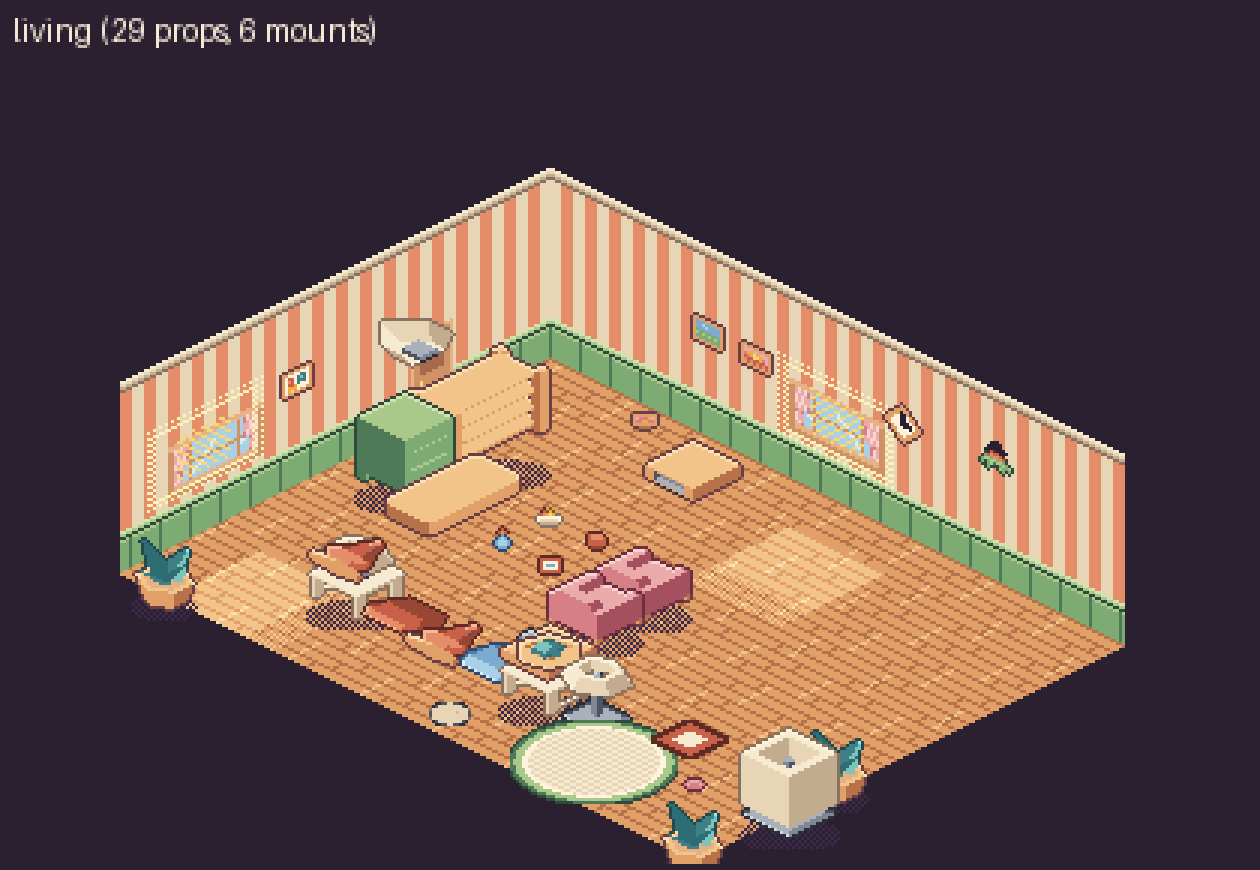
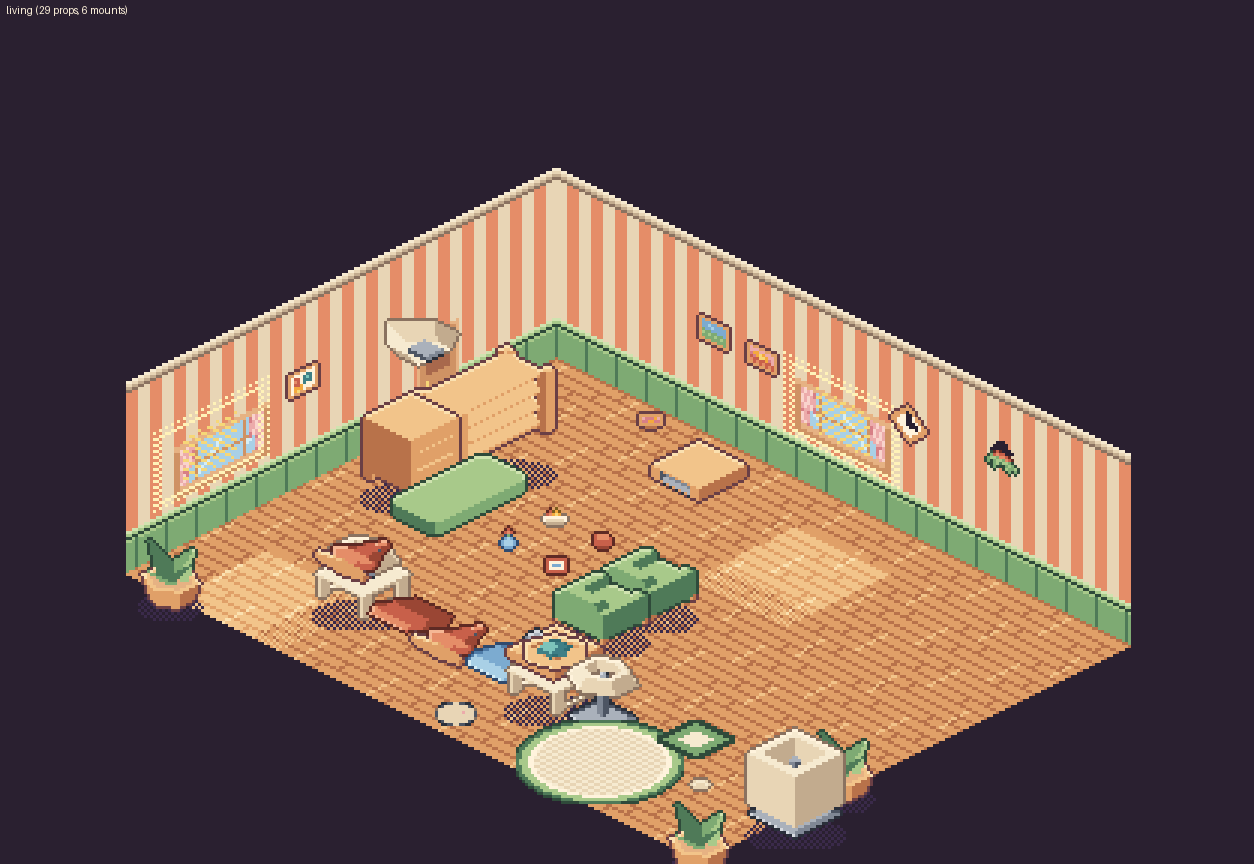
AI-6: living room palette family (recolor.py), full atlas repack, requests to AI-2, status

Changed region(s): [[0.0933, 0.1875, 0.9019, 1.0], [0.0, 0.0, 0.311, 0.0625]]

diff --git a/tools/pixelart/recolor.py b/tools/pixelart/recolor.py
@@ -1,0 +1,38 @@
+#!/usr/bin/env python3
+"""AI-6: palette-family recolour of existing prop/spot PNGs (tone-for-tone ramp swap, palette-exact, idempotent). Used because the Kenney OBJs
+are not in the repo, so the 3D frames cannot be re-rendered. Usage: recolor.py <room-slice dir> [--report]. Run BEFORE tools/pack/pack.py."""
+import json, os, sys
+from PIL import Image
+sys.path.insert(0, os.path.dirname(__file__))
+from dsl import PAL, hx
+RAMP = {tuple(hx(c)): (n, i) for n, r in PAL['ramps'].items() for i, c in enumerate(r)}
+# one palette family per room: warm wood + cream neutrals + ONE accent (sage). frame -> [(from ramp, to ramp)]
+MAP = {
+    'prop__loungeSofa': [('teal', 'sage')], 'prop__loungeChair': [('rose', 'sage')], 'prop__chairDesk': [('sky', 'sage')],
+    'prop__bookcaseClosed': [('sage', 'woodWarm')], 'prop__bench': [('sage', 'woodWarm')], 'prop__sideTableDrawers': [('sage', 'woodWarm')],
+    'prop__cabinetTelevision': [('slate', 'woodDark')], 'prop__speaker': [('slate', 'woodDark')],
+    'spot__sofa__closed': [('teal', 'sage')], 'spot__sofa__open': [('teal', 'sage')],
+    'prop__catBed': [('terracotta', 'sage')], 'prop__catBowl': [('rose', 'plaster')], 'prop__pottedPlant': [('teal', 'sage')],
+    'prop__rugDoormat': [('woodWarm', 'sage'), ('woodDark', 'sage')],
+}
+def report(path):
+    im = Image.open(path).convert('RGBA'); c = {}
+    for p in im.getdata():
+        if p[3] and tuple(p) in RAMP: c[RAMP[tuple(p)][0]] = c.get(RAMP[tuple(p)][0], 0) + 1
+    return c
+def apply(path, swaps):
+    im = Image.open(path).convert('RGBA'); px = im.load(); inv = {(n, i): hx(c) for n, r in PAL['ramps'].items() for i, c in enumerate(r)}; n = 0
+    for y in range(im.height):
+        for x in range(im.width):
+            p = px[x, y]
+            if p[3] and tuple(p) in RAMP:
+                r, i = RAMP[tuple(p)]
+                for a, b in swaps:
+                    if r == a: px[x, y] = inv[(b, i)]; n += 1; break
+    im.save(path); return n
+if __name__ == '__main__':
+    d = sys.argv[1]
+    for name, swaps in MAP.items():
+        f = os.path.join(d, name + '.png')
+        if not os.path.exists(f): print('skip', name); continue
+        print(name, report(f) if '--report' in sys.argv else apply(f, swaps))

diff --git a/docs/status/AI-6.md b/docs/status/AI-6.md
@@ -1,35 +1,30 @@
-# AI-6 status (Art Support)
+# AI-6 status (Art Support, now also inheriting AI-4's art and the atlas packer)
 
 ## Done
-- Task 1 audit: docs/art/PUZZLE-SKINS.md, evidence docs/art/evidence/puzzle-skins-3x.png.
-- Found: AI-4 already shipped panels plus basic extras for all 11 kinds, and 3 frames for each of the 16 FX names (tools/pixelart/fx.py). The real gap is quality and missing states, not missing kinds.
+- Audit: docs/art/PUZZLE-SKINS.md. AI-4 had made panels for all 11 kinds; real gap was stubs and missing states.
+- Puzzle skins (tools/pixelart/puzzles.py, puzzle2.py; one commit per kind): code key_down/slot_ok/slot_bad/btn_ok; memory card_match/card_miss; pipes tee/end/source + _on water; slide tile_ok/tile_down; sort shaped tokens + bin/bin_ok; lights tile_on_glow; mastermind fb_exact/fb_near; sequence shaped pads; untangle link; panels now 2 px accent trim.
+- FX: all 16 names have 3 frames (docs/art/evidence/fx-4x.png). Redrew take, clue, room (tools/pixelart/fx.py).
+- Wall decor: shelfBooks, shelfPlants, towelRail, coatHooks (1 wide), pictureWide, pictureTriptych (2 wide), each with _L (tools/pixelart/wall2.py, sheet wall-decor-4x.png).
+- Docs: ASSET-LIST.md, LICENSES.md updated.
+- Manager order 10:00: I run tools/pack/pack.py (all atlases repacked). Living room colour pass with tools/pixelart/recolor.py (tone-for-tone ramp swap; Kenney OBJs are not in the repo so no re-render): sofa, armchairs, bookcaseClosed, bench, sideTableDrawers, cat bed, doormat now sage or honey, TV unit and speaker dark wood, pottedPlant leaves sage, spot/sofa sage. Evidence docs/art/evidence/art-living-3x.png.
+- Regenerate order: props2, spots, sofa, spots3, wall2, puzzles, puzzle2, fx, recolor, then pack.py.
 
 ## Verified
-- `npm run art:sheet`: "missing frames: none". `check.py --max 96` on all 11 puzzle groups: 0 problems.
+- `npm test`: 69 files, 586 tests passed. `npm run build`: boot payload 1849.4 KB (limit 1900), dist 2081 KB. `npm run check-assets`: ok (441 files). `npm run art:sheet`: missing frames none. check.py: 0 problems on all puzzle groups and room-slice.
 
 ## Not verified
-- No browser used. Nothing seen running; FX bursts never judged at phone size. Feel is for the owner to judge.
+- No browser: nothing seen in game, no phone check. FX never judged at phone size. Feel is for the owner.
+- art:sheet draws props only, not spot frames, so it misjudges sofa/TV areas.
+
+## Weak
+- Furniture silhouettes (manager item 2) only recoloured, not redrawn: armchair still two fused blocks until AI-2 splits them, TV unit and dining set unchanged. Each room keeps its own wallpaper colour. Memory and mastermind panels share the rose accent. towelRail and coatHooks are small.
 
 ## Requests
-- -> AI-2: new wall kinds ready as art (add to src/content/worldKinds.ts; I do not touch src/content). All mount:true, h 1: shelfBooks B(1,1,1), shelfPlants B(1,1,1), towelRail B(1,1,1) bathroom, coatHooks B(1,1,1) entrance, pictureWide B(2,1,1), pictureTriptych B(2,1,1) (2 wide like bunting). Suggested: study/living/bedroom shelfBooks, kitchen/bathroom shelfPlants, living/bedroom pictureWide, study/entrance pictureTriptych.
-- -> AI-4: please run the atlas repack: room-slice props (6 new wall kinds + _L), puzzle:code, memory, pipes, slide, sort (new frames) and core (redrawn fx take, clue, room). Until then the game still shows the old frames.
-- -> AI-7: new frames you can use now are listed in docs/art/PUZZLE-SKINS.md (code key_down/slot_ok/slot_bad/btn_ok, memory card_match/card_miss, pipes tee/end/source/_on, slide tile_ok, sort bin/bin_ok + shaped tokens). Tell me any other name you need.
-- -> AI-3, AI-5: all 16 FX names have 3 frames and src/fx/layer.ts already plays them; no new names to hook.
-- -> Manager: brief says max 40 live FX sprites per room; src/fx/specs.ts has MAX_PARTICLES 60 (confetti 40). I left it; say if you want 40.
-
-- Task 3 audit: all 16 FX names have 3 frames (docs/art/evidence/fx-4x.png). Redrew take (sparkle), clue (question mark), room (comet streak): fx-redo-6x.png.
-
-- Gaps closed: panel trim now 2 px accent (was 1 px) with accent rivets; lights tile_on_glow; mastermind fb_exact, fb_near (8x8); sequence pads carry shapes (lit and unlit); untangle link (rope piece). Sheet: puzzle-skins-3x.png. Weak: memory and mastermind both use the rose accent (palette has 12 ramps for 11 kinds); untangle link is a plain bar; target still has only ring and hit mark.
-
-- Task 5 docs: ASSET-LIST.md and LICENSES.md updated.
-
-- Task 4 wall decor: 6 new mounts in assets/frames/room-slice (tools/pixelart/wall2.py), each with `_L` mirror: shelfBooks, shelfPlants, towelRail, coatHooks (1 tile wide) and pictureWide, pictureTriptych (2 tiles wide). Sheet wall-decor-4x.png. Weak: towelRail and coatHooks are small; no wall frames use dither or light yet.
+- -> AI-2 (living, worldPropsA.ts LIVING): (1) delete both loungeChair at (5,3) and (5,4); place one at (1,3) rot 1 and one at (7,4) rot 3, facing the coffee table (3,3). (2) rugRound (8,7) hugs the front edge: move to (6,5). (3) delete robotVacuum (6,8) and catBowl (10,7); keep catBed and one mat. (4) register pottedFern, pottedCactus, pottedFlower in worldKinds.ts as B(1,1,4,{sym:true}); use pottedFern at (11,5), pottedFlower at (11,8), keep pottedPlant at (0,8); same in other rooms so none repeats one plant.
+- -> AI-2: wall kinds shelfBooks, shelfPlants, towelRail, coatHooks (B(1,1,1,{mount:true})), pictureWide, pictureTriptych (B(2,1,1,{mount:true})). Suggest: living shelfBooks R t=1, pictureWide L t=3; study shelfBooks, pictureTriptych; bedroom pictureWide; kitchen and bathroom shelfPlants; bathroom towelRail; entrance coatHooks.
+- -> AI-7: new puzzle frames are in the atlases now (see docs/art/PUZZLE-SKINS.md); tell me any other name you need.
+- -> Manager: FX cap is 60 in src/fx/specs.ts, brief says 40; left as is.
 
 ## Next
-- Task 2, memory: card_match, card_miss, card_face (plaster, bottom line). Evidence puzzle-memory-3x.png.
-
-- Task 2, pipes: pipe_tee, pipe_end, pipe_source (all drawn pointing up; scene rotates in 90 deg steps), plus _on water versions of straight, elbow, tee, end. Evidence puzzle-pipes-3x.png. Weak: source valve is a tiny yellow square; the old elbow channel is a pixel wider than the new pieces.
-
-- Task 2, slide: tile_ok (star), tile_down. sort: token_0..3 now carry shapes (square, diamond, triangle, circle) so colour is not the only cue; new bin, bin_ok. Evidence puzzle-slide-sort-3x.png. Weak: slide tile numbers still come from scene text; bin is a blank well.
-
-Task 2 left: panel trims per kind (still near-identical), lights glow, mastermind feedback pegs, sequence pad shapes, untangle rope, target. Then Task 3 check, repack request (one per commit, add to KINDS in puzzle2.py). Then atlas repack request -> AI-4 and name list -> AI-7.
+- After AI-2 re-places the living room: re-run art:sheet, look again.
+- Item 2: redraw TV unit, armchair, dining set silhouettes (hand-built like tools/pixelart/sofa.py), then repack.
